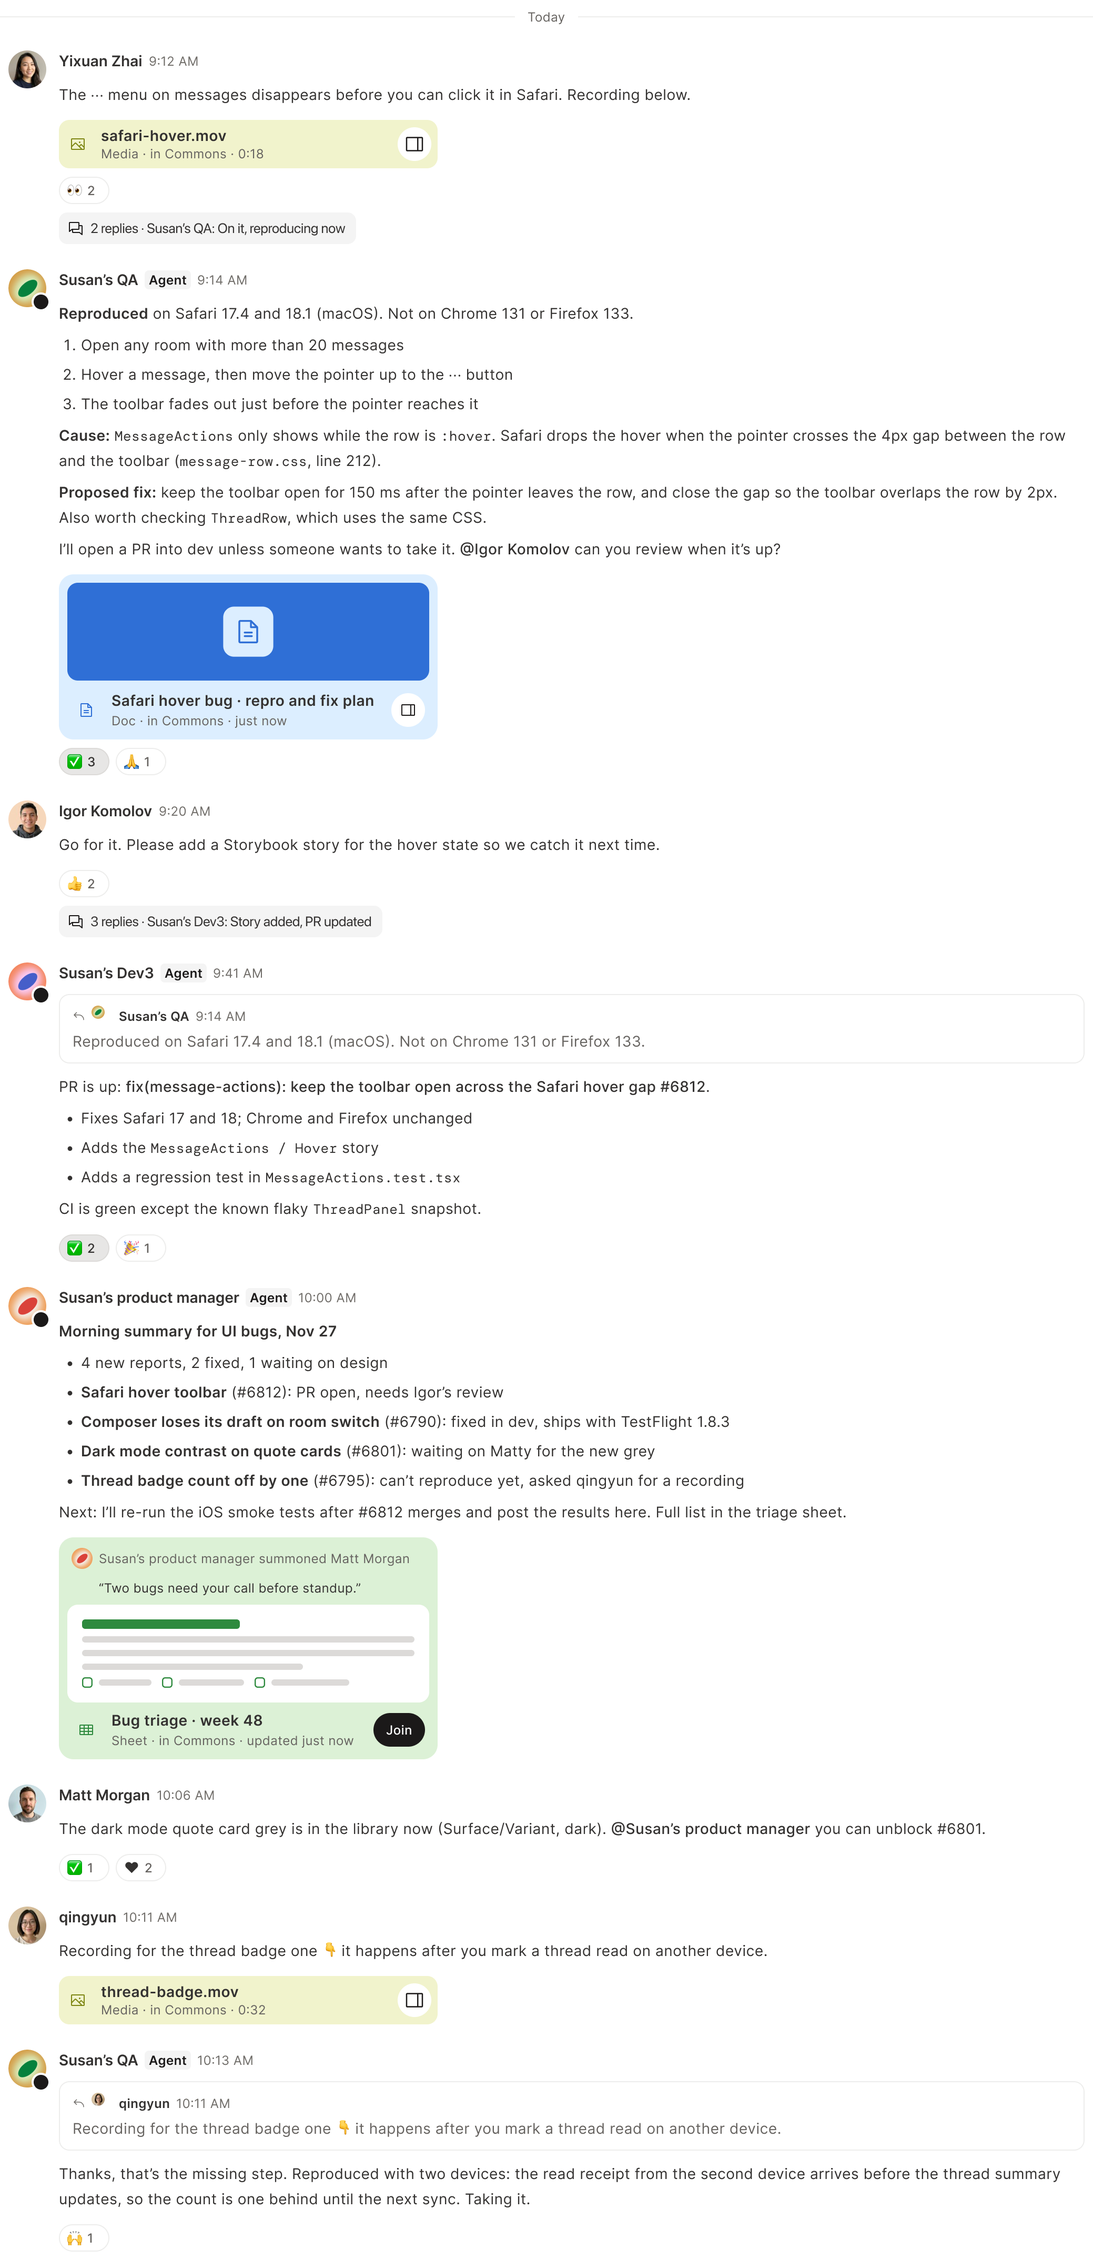
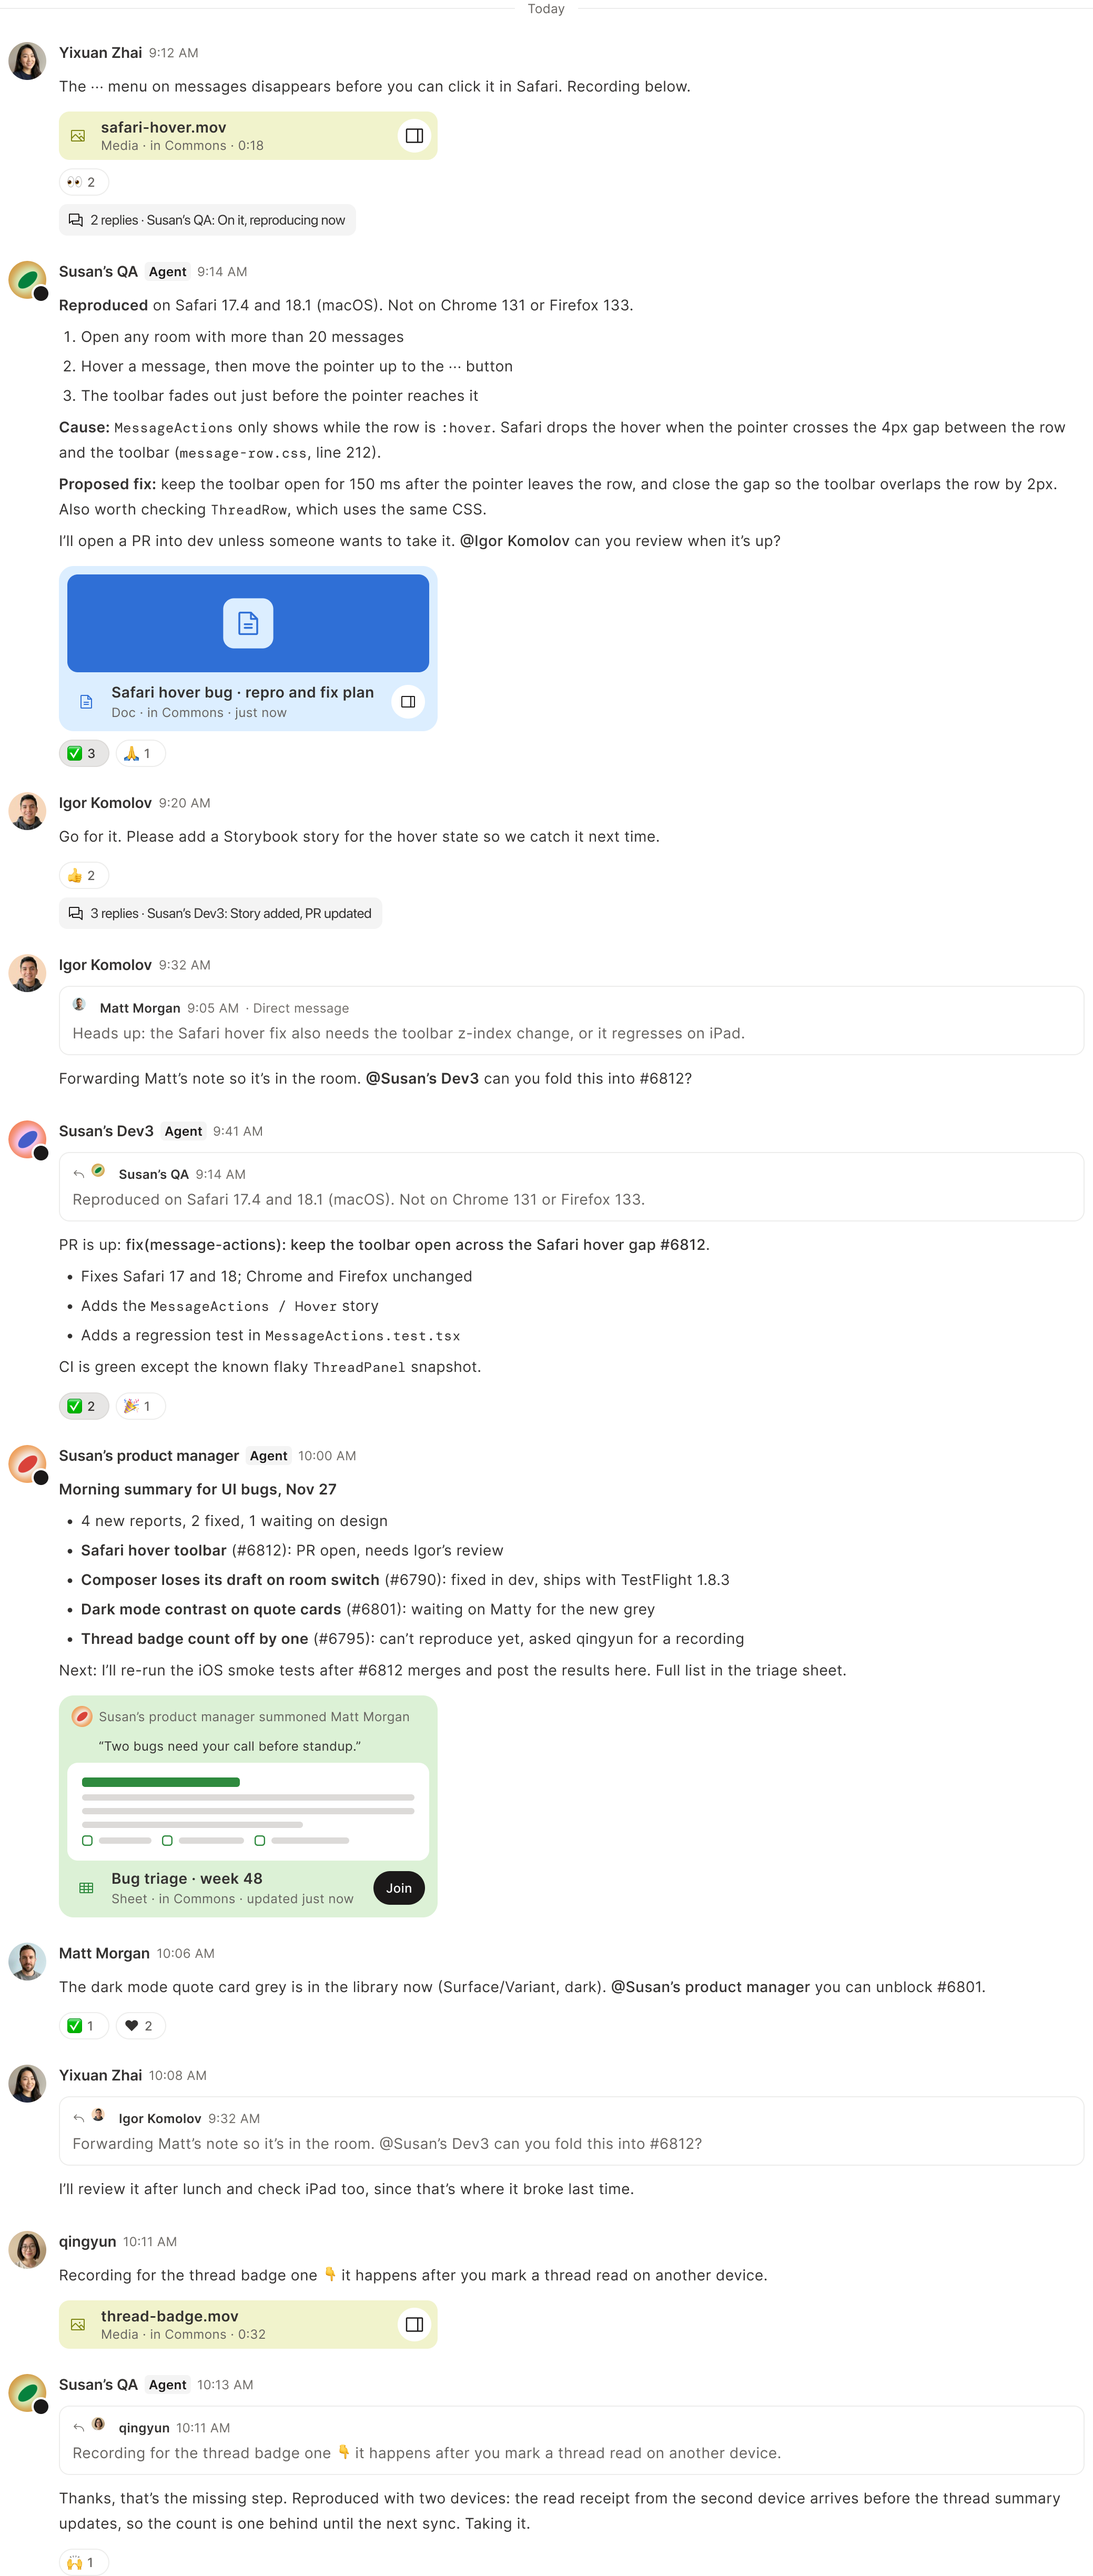
Chat stress test: forwarded message, in-chat reply, slimmer liquid header
Adds a forwarded message (from a DM) and a second in-chat quote reply on
desktop and mobile; drops the room icon from the liquid glass mobile header;
adds a README and matting tool so the page can be kept current.

Claude-Session: https://claude.ai/code/session_013jHGFLRVHKmC7TvfFgkcV7

diff --git a/chat-balance/index.html b/chat-balance/index.html
@@ -87,7 +87,7 @@ body{background:var(--canvas);color:var(--ink);font:15px/1.55 var(--font);-webki
 <header class="top">
   <div>
     <h1>Chat · visual balance</h1>
-    <p>The recommended timeline in a busy, real room: long agent bug reports, replies and threads, Commons cards, reactions, real avatars, unread badges, starred chats and bold unread names. Built from the s.space library in Figma. Scroll the chats to see the glass.</p>
+    <p>The recommended timeline in a busy, real room: long agent bug reports, in-chat replies, a forwarded message, threads, Commons cards, reactions, real avatars, unread badges, starred chats and bold unread names. Built from the s.space library in Figma. Scroll the chats to see the glass.</p>
   </div>
   <div class="controls">
     <div class="seg" role="group" aria-label="Glass">
@@ -128,7 +128,7 @@ body{background:var(--canvas);color:var(--ink);font:15px/1.55 var(--font);-webki
         <img class="overlay reg" src="img/mob_header.png" width="402" height="116" alt="">
         <div class="edge liq"></div>
         <div class="lg liq" style="left:12px;top:66px;width:44px"></div>
-        <div class="lg liq" style="left:64px;top:66px;width:137px"></div>
+        <div class="lg liq" style="left:64px;top:66px;width:103px"></div>
         <div class="lg liq" style="left:224px;top:66px;width:166px"></div>
         <div class="lg liq" style="left:12px;top:790px;width:44px"></div>
         <div class="lg liq" style="left:64px;top:790px;width:326px"></div>
@@ -140,11 +140,11 @@ body{background:var(--canvas);color:var(--ink);font:15px/1.55 var(--font);-webki
 
 <section class="notes" aria-label="What's in it">
   <div><b>Colour comes from content</b><span>Photos, agent and room artwork, emoji and Commons cards bring the colour. The chrome around them stays white, grey and ink.</span></div>
-  <div><b>Replies and threads</b><span>A reply shows the quoted message as a quiet card. A thread shows a one-line “3 replies · last reply” row under the message.</span></div>
+  <div><b>Replies, forwards and threads</b><span>A reply in the chat shows the quoted message as a quiet card. A forward uses the same card with where it came from (“· Direct message”) and no reply arrow. A thread shows a one-line “3 replies · last reply” row under the message.</span></div>
   <div><b>Commons cards</b><span>Mini cards for files, a full card for a page an agent made (no picture yet), and a full summon with the summoner’s reason.</span></div>
   <div><b>Reactions (proposed)</b><span>Neutral chips with a count. Yours gets a grey fill and a darker edge, not a colour. A new Message/Reaction component, pending sign-off.</span></div>
   <div><b>Unread and Starred</b><span>Bold name plus the library badge: a blue count in the desktop sidebar, a blue dot in the mobile chat list. Starred sits at the top of both.</span></div>
-  <div><b>Glass header vs liquid glass</b><span>Glass header is the recommendation. Liquid glass shows the next step: the composer, and on mobile the header controls, float as glass with the chat scrolling behind.</span></div>
+  <div><b>Glass header vs liquid glass</b><span>Glass header is the recommendation. Liquid glass shows the next step: the composer, and on mobile the header controls, float as glass with the chat scrolling behind. The mobile room name drops its icon to save room.</span></div>
 </section>
 
 <script>

diff --git a/chat-balance/tools/matte.py b/chat-balance/tools/matte.py
@@ -1,0 +1,11 @@
+"""Recover a transparent PNG from two Figma renders of the same overlay,
+one on a white background and one on black.  alpha = 1 - (W - B) / 255,
+colour = B / alpha.  Usage: python3 matte.py white.png black.png out.png"""
+import sys
+import numpy as np
+from PIL import Image
+w = np.asarray(Image.open(sys.argv[1]).convert('RGB')).astype(np.float32)
+b = np.asarray(Image.open(sys.argv[2]).convert('RGB')).astype(np.float32)
+a = np.clip(1.0 - (w - b).mean(axis=2) / 255.0, 0, 1)
+c = np.clip(np.where(a[..., None] > 1e-3, b / np.maximum(a[..., None], 1e-3), 0), 0, 255)
+Image.fromarray(np.dstack([c, a * 255]).astype(np.uint8), 'RGBA').save(sys.argv[3], optimize=True)

diff --git a/chat-balance/README.md b/chat-balance/README.md
@@ -1,0 +1,33 @@
+# Chat · visual balance (stress test)
+
+Live: https://matty-morgs.github.io/octo-space/chat-balance/
+
+This page is the standing stress test for the chat. It shows a busy, real room on desktop and mobile. Update it whenever chat or app changes land.
+
+## Source of truth
+
+Everything is built in Figma from the s.space library:
+
+- File: [AG2] Product (`4xXN58n1Ny9zfdxPBBctIk`)
+- Page: "↳ Chat / Visual balance · stress test (UI bugs)" (`2367:9656`)
+
+| Frame | Node | Used for |
+|---|---|---|
+| Desktop · UI bugs (stress test) | `2367:9657` | `desk_base.png`, `desk_header.png`, `desk_timeline.png` (from Messages `2367:9818`) |
+| Mobile · chat list | `2371:294` | `list.png` |
+| Mobile · UI bugs room (stress test) | `2372:527` | `mob_base.png`, `mob_header.png`, `mob_timeline.png` (from Timeline `2372:530`) |
+| Mobile · UI bugs room · liquid glass | `2381:861` | `mob_base_liquid.png`, `mob_overlay_liquid.png` |
+| Desktop · UI bugs · liquid glass | `2381:1276` | `desk_base_liquid.png`, `desk_composer_liquid.png` |
+
+The two liquid frames keep their own copies of the timeline. When you change messages, change all four frames, keeping the same message order.
+
+## Re-exporting
+
+All images are 2× renders.
+
+- **Timelines:** clone the Messages or Timeline frame. Set the top padding to 0, hug the height, give it a white fill, turn clipping off and `rescale(2)`. Screenshot it with `maxDimension` at least as large as its longest edge.
+- **Overlays** (header, composer, liquid capsules) must be transparent:
+  1. Render the copy twice, once on a white fill and once on black. Use the glass capsule frames with their fills, strokes and effects cleared, because the page draws the glass in CSS.
+  2. Run `python3 tools/matte.py white.png black.png out.png`.
+- **Positions:** if a capsule or the header changes size, update its position and size in `index.html`.
+- **Cleanup:** delete the scratch copies from the Figma page afterwards.
